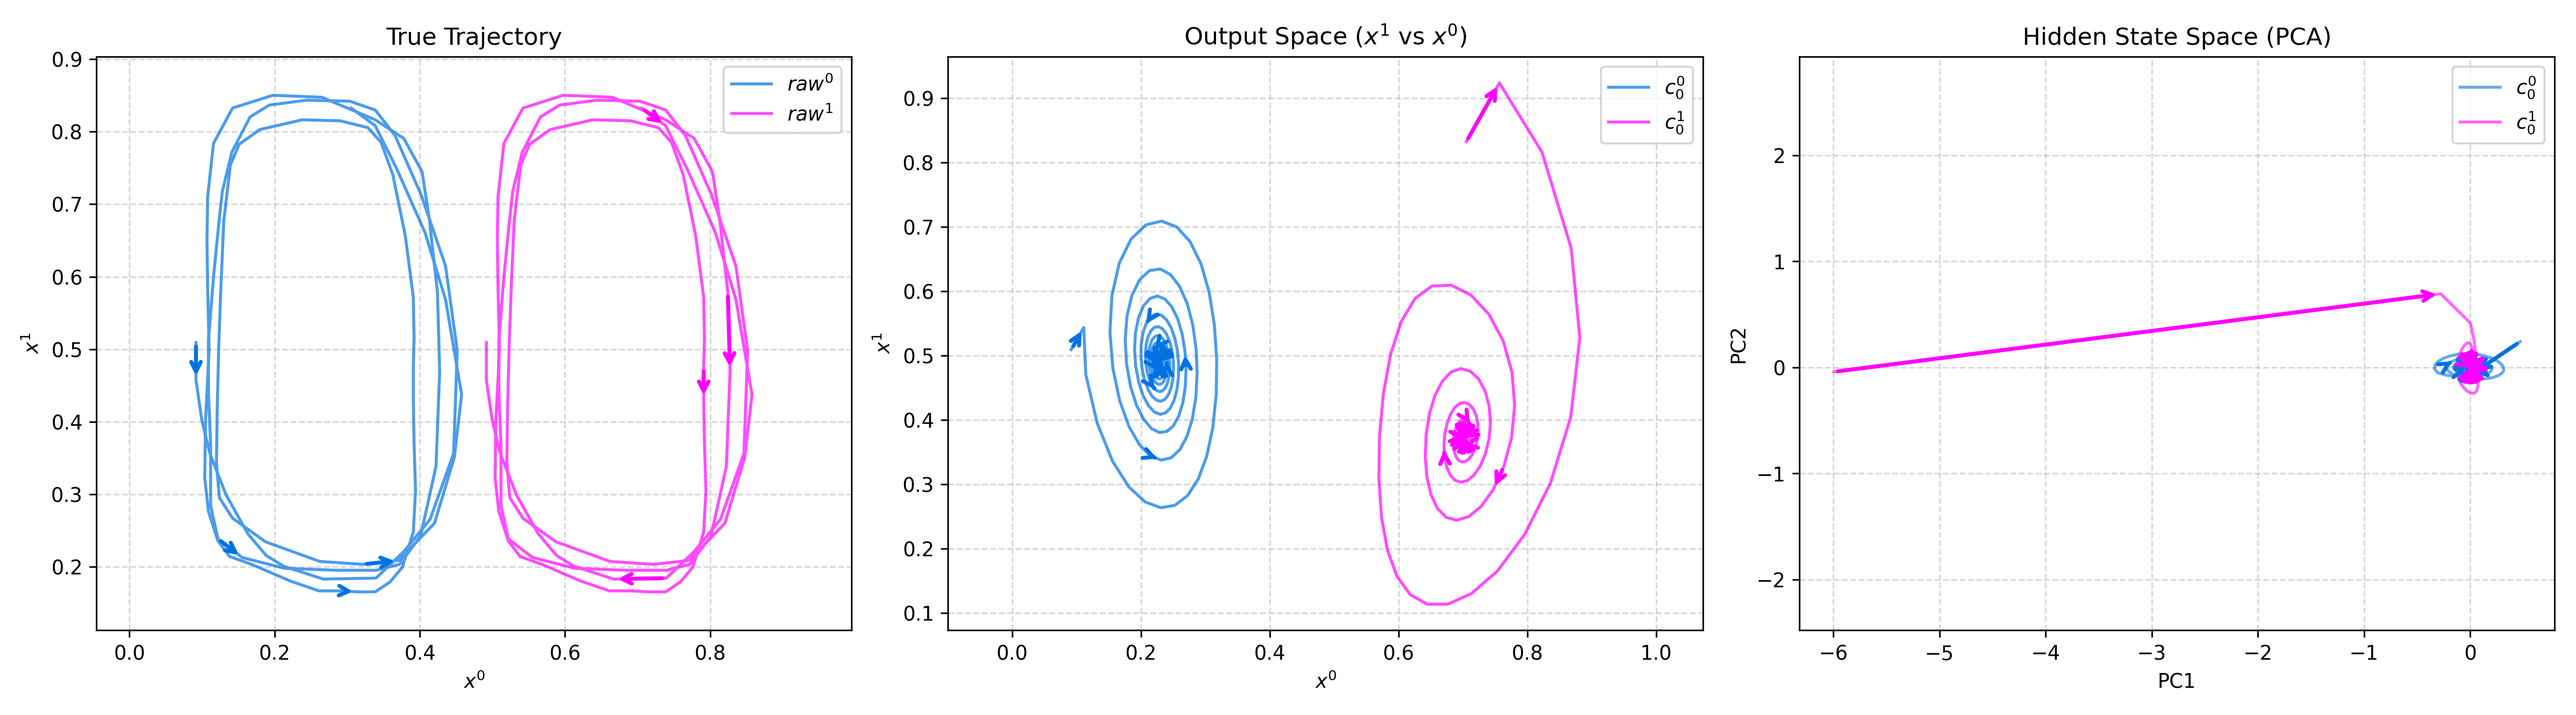
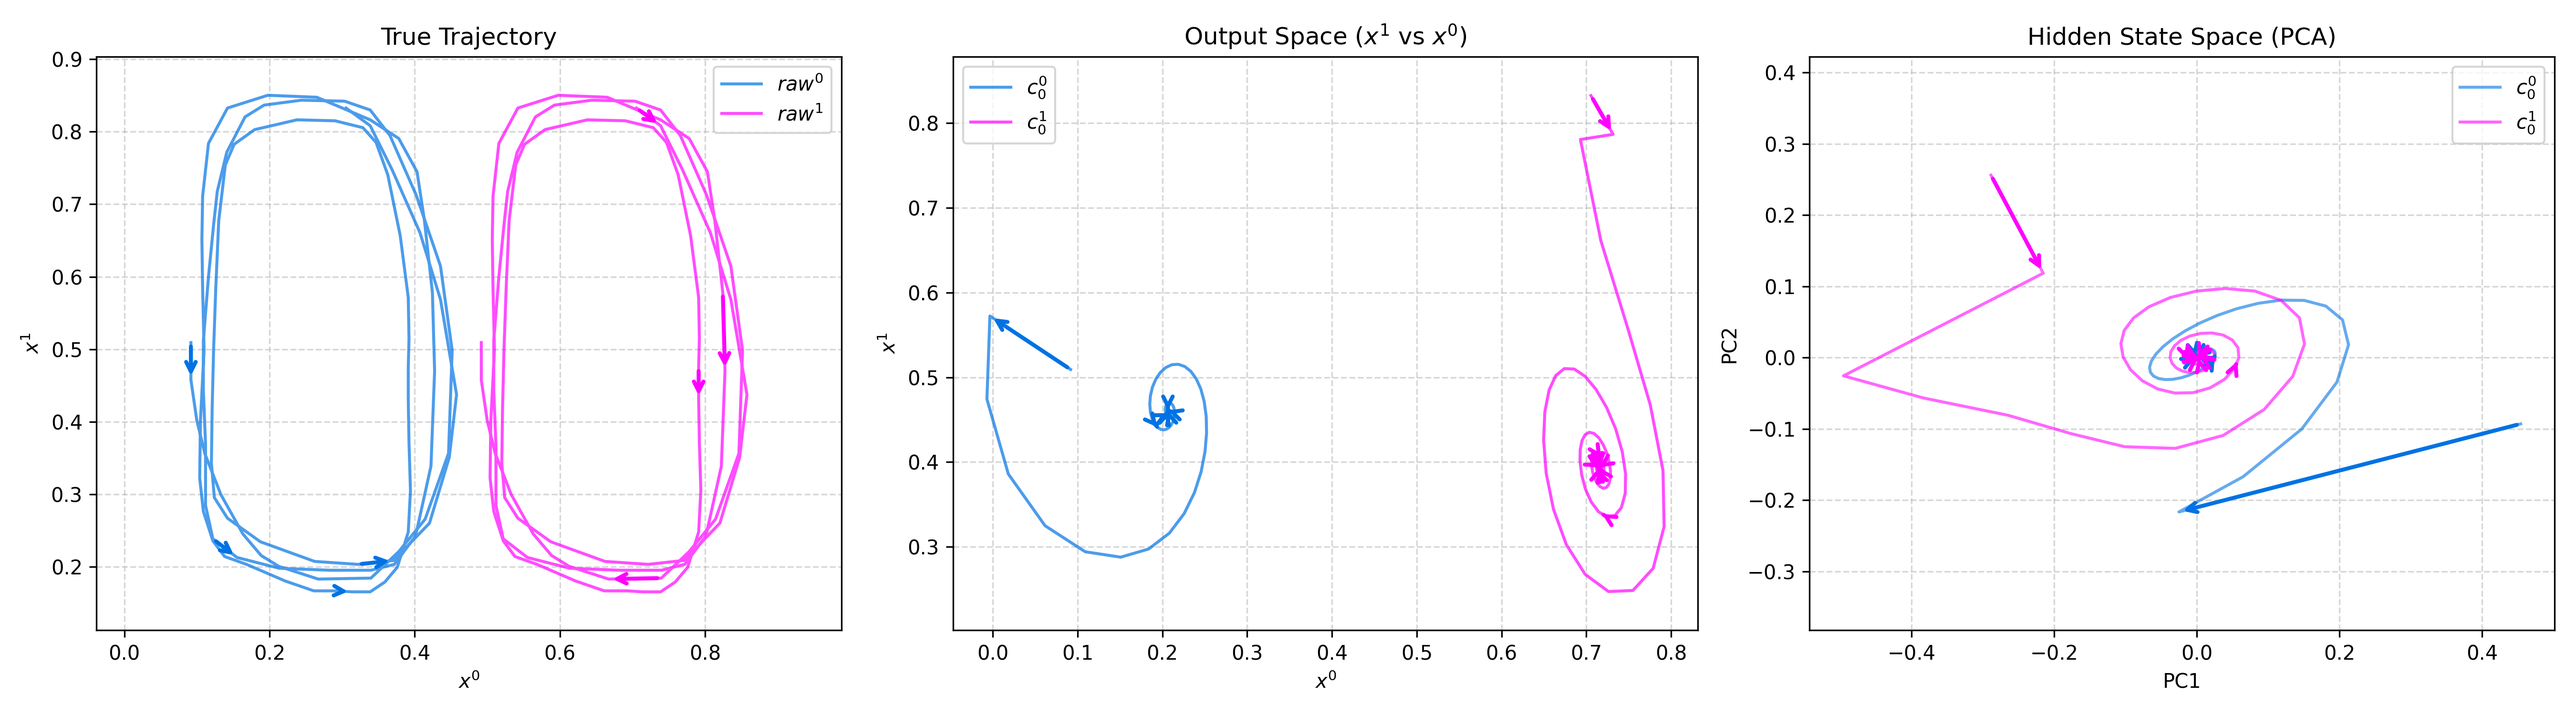
update

diff --git a/_2_cycle_th_rnn_tf.py b/_2_cycle_th_rnn_tf.py
@@ -9,7 +9,7 @@ import os
 
 from thnn.tensor import tensor
 from thnn.loss import MSELoss
-from thnn.optimizer import Adam, SGD
+from thnn.optimizer import Adam, SGD, SGD_Momentum
 from thnn.utils import rollout_one, clip_grad_norm
 from thnn.rnns import RNN_2D_Customized_Hidden_Space
 
@@ -66,9 +66,9 @@ c0_list = [
 # =========================================================
 # 5. optimizer and loss
 # =========================================================
-optimizer = SGD(
+optimizer = Adam(
     model.parameters() + c0_list,
-    lr=0.01
+    lr=0.003
 )
 
 criterion = MSELoss()
